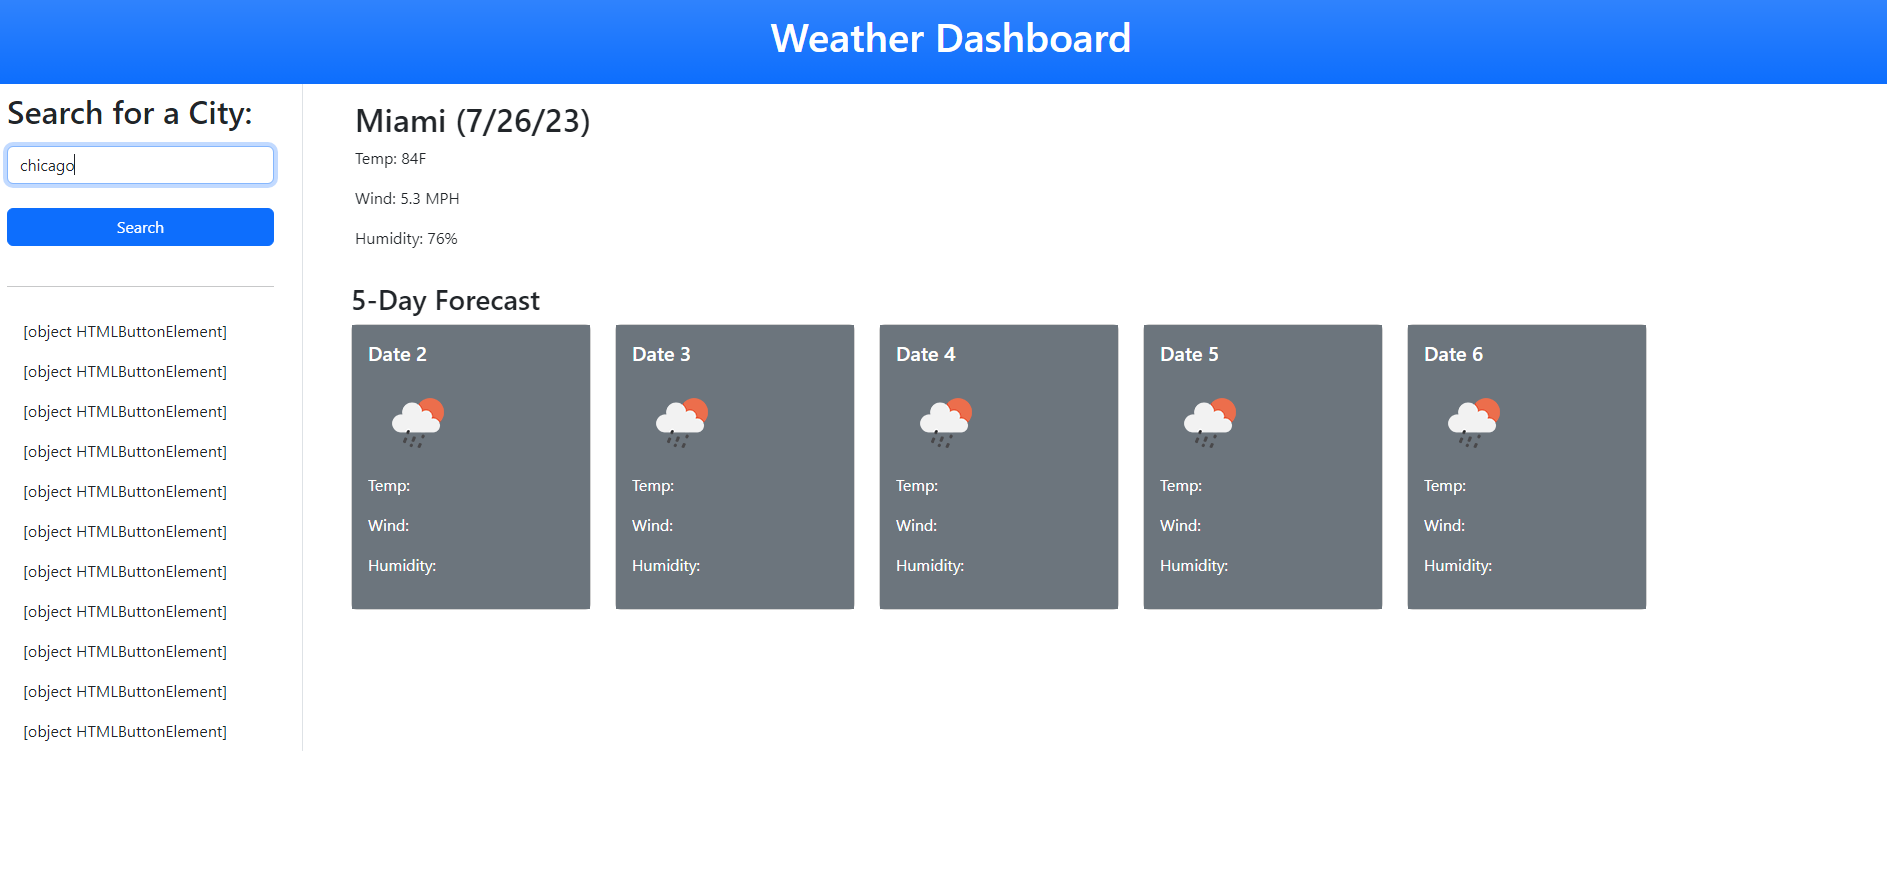
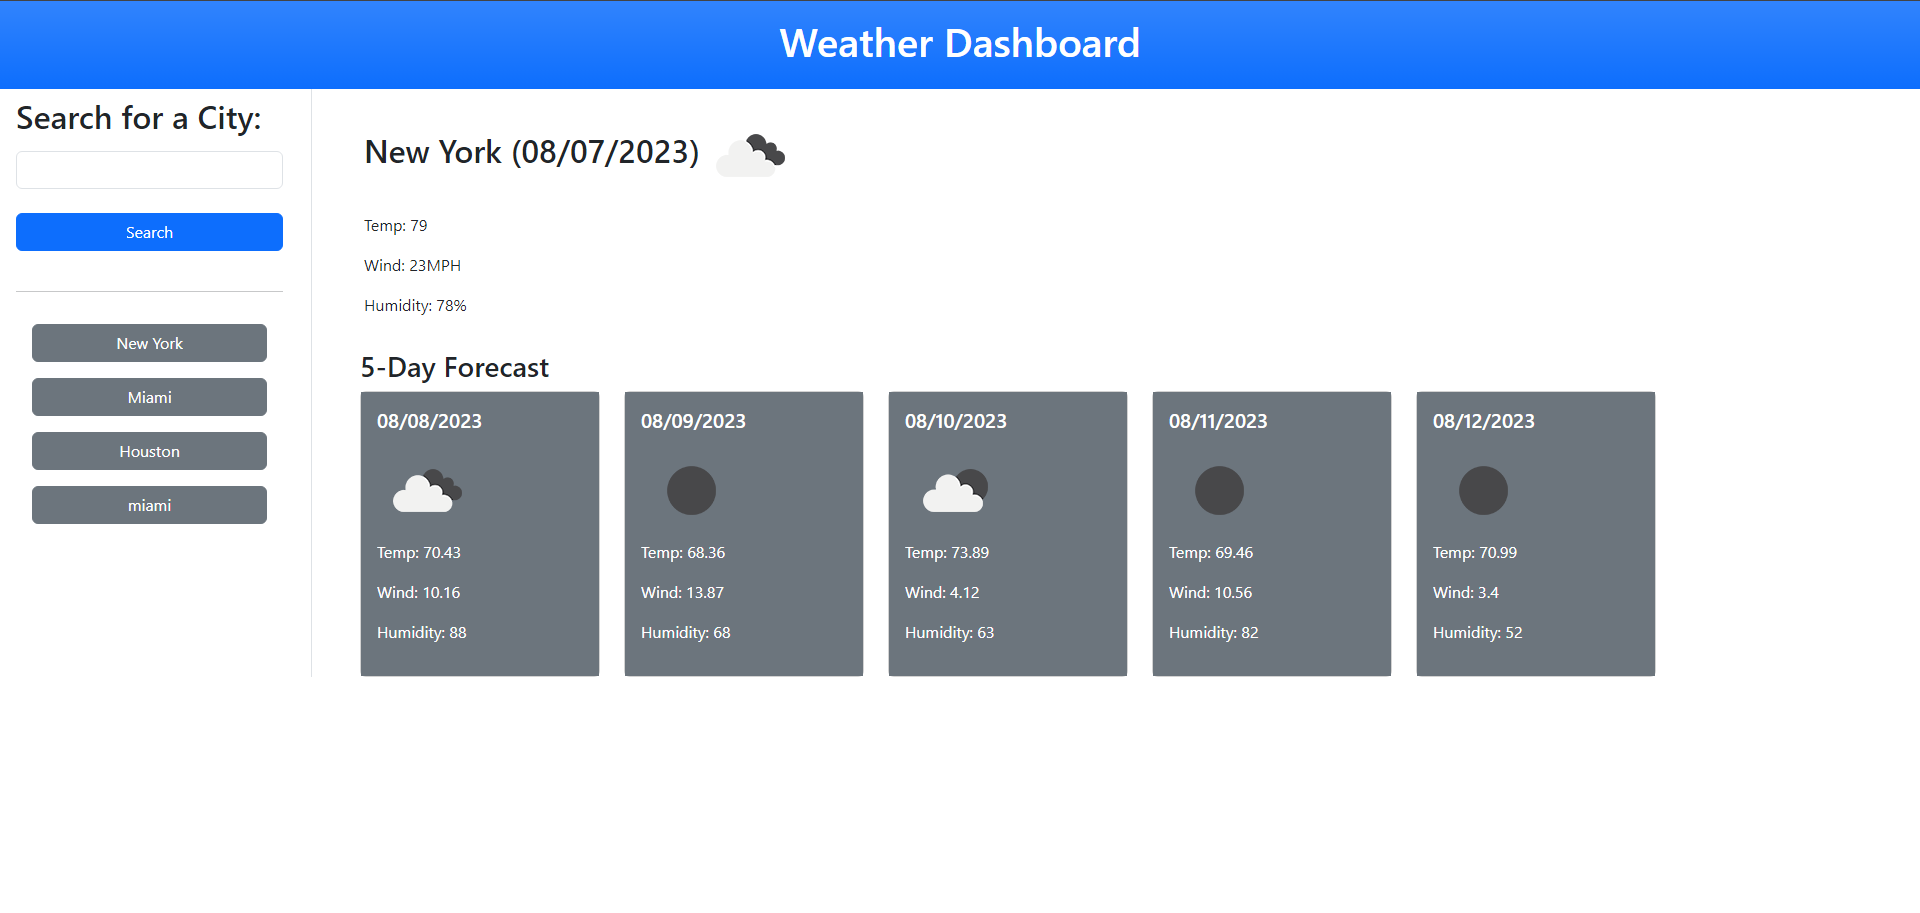
fixed buttons

diff --git a/assets/js/script.js b/assets/js/script.js
@@ -6,43 +6,51 @@ var windEl = document.getElementById("wind");
 var humidityEl = document.getElementById("humidity");
 var searchBtn = document.getElementById("search-btn");
 var searchHistoryEl = document.getElementById("search-history");
-// var cityBtn = document.getElementById("city-btn");
 var cityInput = document.getElementById("city-input");
 var forecastCardsEl = document.getElementById("forecast-cards");
 var cityArr = [];
 
+//Stores user input in local storage, calls displayWeather and createCityBtn functions
 function weatherSearch() {
-    cityArr.push(cityInput.value);
+    if (!cityArr.toLowerCase().includes(cityInput.value.toLowerCase())) {
+        cityArr.push(cityInput.value);
 
-    localStorage.setItem('city', JSON.stringify(cityArr));
-    console.log(localStorage.getItem('city'));
+        localStorage.setItem('city', JSON.stringify(cityArr));
 
-    displayWeather(cityInput.value);
-    createCityBtn();
+        displayWeather(cityInput.value);
+        createCityBtn();
+        cityInput.value = '';
+    }
 }
 
+//turns gottenCity into an arary and resets cityArr
 function getCity() {
     var gottenCity = localStorage.getItem('city');
-    //turns gottenCity into an arary and resets cityArr
-    cityArr = Object.values(gottenCity);
+    if (gottenCity) {
+        cityArr = JSON.parse(localStorage.getItem('city'));
+        return;
+    }
+    // cityArr = JSON.parse(gottenCity);
 }
 
+//Appends new city button to search history list 
 function createCityBtn() {
-    var li = document.createElement('li');
-    var cityBtn = document.createElement('button');
-
-    if (localStorage.length > 0) {
-        // var pastCities = localStorage.getitem('city');
-        // console.log(pastCities);
-
-        cityBtn.innerHTML = cityInput.value;
+    console.log(cityArr);
+    searchHistoryEl.textContent = "";
+    for (let i = 0; i < cityArr.length; i++) {
+        var li = document.createElement('li');
+        var cityBtn = document.createElement('button');
+        cityBtn.innerHTML = cityArr[i];
         cityBtn.classList.add("btn", "btn-secondary", "w-100");
         li.classList.add("list-group-item", "border-0");
         li.appendChild(cityBtn);
         searchHistoryEl.appendChild(li);
+        cityBtn.addEventListener('click', function (event) {
+            displayWeather(event.target.textContent);
+        })
     }
-
 }
+
 
 //This function displays weather data on the page
 function displayWeather(cityName) {
@@ -54,12 +62,11 @@ function displayWeather(cityName) {
             return response.json();
         })
         .then(function (currentData) {
-            console.log(currentData);
             //Parse through currentData to display city name and use dayjs to format date obtained from currentData.dt
             titleEl.innerHTML = currentData.name + " " + dayjs.unix(currentData.dt).format("(MM/DD/YYYY)") + "<img src=https://openweathermap.org/img/wn/" + currentData.weather[0].icon + "@2x.png >";
             tempEl.innerHTML = "Temp: " + currentData.main.temp;
             windEl.innerHTML = "Wind: " + currentData.wind.speed + "MPH";
-            humidityEl.innerHTML = "Humidity: " +currentData.main.humidity + "%";
+            humidityEl.innerHTML = "Humidity: " + currentData.main.humidity + "%";
         })
 
     //fetch the 5 day forecast from the API
@@ -70,16 +77,14 @@ function displayWeather(cityName) {
             return response.json();
         })
         .then(function (forecastData) {
-            console.log(forecastData);
             //Loop through 5 days of forecast. Forecast lists weather for every 3 hours. 
             //Take noon forecast of each day (24hrs/3hrs=8hrs) add 8 for each iteration
             var forecastArr = forecastData.list;
             for (let i = 3, j = 1; i < forecastArr.length; i = i + 8, j++) {
-                console.log(forecastArr[i]);
                 var cardTitle = document.getElementById("card-title" + j);
                 cardTitle.textContent = dayjs.unix(forecastArr[i].dt).format("MM/DD/YYYY");
                 var cardIcon = document.getElementById("icon" + j);
-                cardIcon.innerHTML = "<img src='https://openweathermap.org/img/wn/" +forecastArr[i].weather[0].icon + "@2x.png' alt='weather icon'></img>"
+                cardIcon.innerHTML = "<img src='https://openweathermap.org/img/wn/" + forecastArr[i].weather[0].icon + "@2x.png' alt='weather icon'></img>"
                 var temp = document.getElementById("temp" + j);
                 temp.textContent = "Temp: " + forecastArr[i].main.temp;
                 var wind = document.getElementById("wind" + j);
@@ -90,8 +95,8 @@ function displayWeather(cityName) {
         })
 }
 
+
+getCity();
+createCityBtn();
 //calls weatherSearch when search btn is clicked
 searchBtn.addEventListener("click", weatherSearch);
-
-//calls displayWeather when city btn is clicked
-//cityBtn.addEventListener("click", displayWeather);
